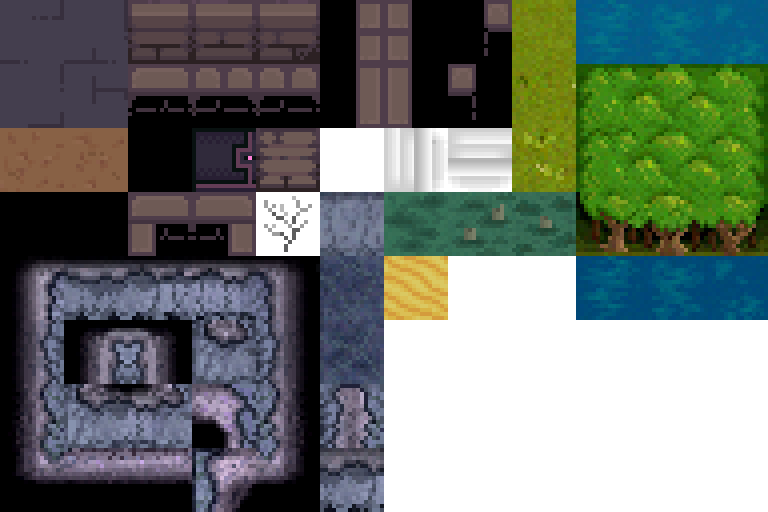
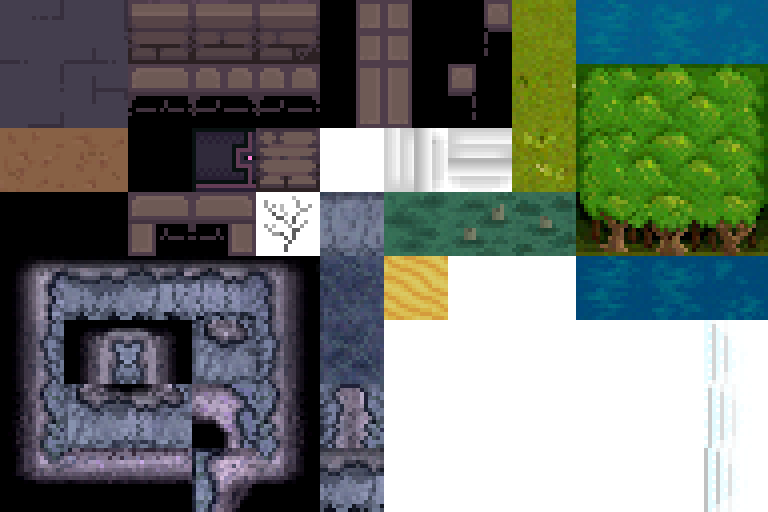
water surf

Changed region(s): [[0.9062, 0.625, 0.9688, 1.0]]

diff --git a/src/main/kotlin/world/terrains/Water.kt b/src/main/kotlin/world/terrains/Water.kt
@@ -1,6 +1,8 @@
 package world.terrains
 
 import render.tilesets.Glyph
+import util.*
+import world.level.Level
 
 
 sealed class Water(
@@ -8,7 +10,23 @@ sealed class Water(
     glyph: Glyph
 ) : Terrain(type, glyph, false, true, false, dataType = Type.GENERIC_WATER){
 
-
+    override fun renderExtraQuads(level: Level, x: Int, y: Int, vis: Float, glyph: Glyph, light: LightColor,
+                                  doQuad: (x0: Double, y0: Double, x1: Double, y1: Double, tx0: Float, ty0: Float, tx1: Float, ty1: Float,
+                                           vis: Float, glyph: Glyph, light: LightColor, rotate: Boolean
+                                  )->Unit
+    ) {
+        if (vis < 1f) return
+        CARDINALS.forEach { dir ->
+            if (get(level.getTerrain(x+dir.x,y+dir.y)) !is Water) {
+                when (dir) {
+                    WEST -> doQuad(x.toDouble(), y.toDouble(), x.toDouble() + 1.0, y.toDouble() + 1.0, 0f, 0f, 1f, 1f, vis, Glyph.SURF, light, false)
+                    EAST -> doQuad(x.toDouble(), y.toDouble(), x.toDouble() + 1.0, y.toDouble() + 1.0, 1f, 0f, 0f, 1f, vis, Glyph.SURF, light, false)
+                    NORTH -> doQuad(x.toDouble(), y.toDouble(), x.toDouble() + 1.0, y.toDouble() + 1.0, 0f, 0f, 1f, 1f, vis, Glyph.SURF, light, true)
+                    SOUTH -> doQuad(x.toDouble(), y.toDouble(), x.toDouble() + 1.0, y.toDouble() + 1.0, 1f, 0f, 0f, 1f, vis, Glyph.SURF, light, true)
+                }
+            }
+        }
+    }
 
 }
 

diff --git a/src/main/kotlin/render/batches/QuadBatch.kt b/src/main/kotlin/render/batches/QuadBatch.kt
@@ -97,7 +97,7 @@ class QuadBatch(
     fun addPartialQuad(x0: Double, y0: Double, x1: Double, y1: Double,
                        textureIndex: Int, visibility: Float, light: LightColor,
                        tx0: Float, ty0: Float, tx1: Float, ty1: Float,
-                       alpha: Float = 1f, hue: Float = 0f) {
+                       alpha: Float = 1f, hue: Float = 0f, rotate: Boolean = false) {
         val gx0 = Screen.tileXtoGlx(x0)
         val gy0 = Screen.tileYtoGly(y0)
         val gx1 = Screen.tileXtoGlx(x1)
@@ -106,7 +106,7 @@ class QuadBatch(
         val lightG = min(visibility, light.g + App.level.weather.lightning.g) * Screen.brightness
         val lightB = min(visibility, light.b + App.level.weather.lightning.b) * Screen.brightness
         val grayOut = if (visibility < 1f) 1f else App.level.weather.lightning.r * 0.6f
-        addQuad(gx0, gy0, gx1, gy1, tx0, ty0, tx1, ty1, textureIndex, lightR, lightG, lightB, alpha, grayOut, hue)
+        addQuad(gx0, gy0, gx1, gy1, tx0, ty0, tx1, ty1, textureIndex, lightR, lightG, lightB, alpha, grayOut, hue, rotate)
     }
 
     fun addPixelQuad(x0: Int, y0: Int, x1: Int, y1: Int, // absolute screen pixel XY

diff --git a/src/main/kotlin/world/terrains/Floors.kt b/src/main/kotlin/world/terrains/Floors.kt
@@ -98,12 +98,12 @@ sealed class Floor(
         Terrain.get(chunk.getTerrain(x, y)).let { (!it.isWalkable() && it.isOpaque()) }
 
     override fun renderExtraQuads(level: Level, x: Int, y: Int, vis: Float, glyph: Glyph, light: LightColor,
-                                  doQuad: (x0: Double, y0: Double, x1: Double, y1: Double, tx0: Float, tx1: Float, ty0: Float, ty1: Float,
-                                           vis: Float, glyph: Glyph, light: LightColor)->Unit
+                                  doQuad: (x0: Double, y0: Double, x1: Double, y1: Double, tx0: Float, ty0: Float, tx1: Float, ty1: Float,
+                                           vis: Float, glyph: Glyph, light: LightColor, rotate: Boolean)->Unit
     ) {
         level.getTerrainData(x, y)?.let { it as Data }?.also {
             it.extraQuads.forEach { quad ->
-                doQuad(quad.x0, quad.y0, quad.x1, quad.y1, quad.tx0, quad.ty0, quad.tx1, quad.ty1, vis, quad.glyph, light)
+                doQuad(quad.x0, quad.y0, quad.x1, quad.y1, quad.tx0, quad.ty0, quad.tx1, quad.ty1, vis, quad.glyph, light, false)
             }
         }
     }

diff --git a/src/main/kotlin/render/Screen.kt b/src/main/kotlin/render/Screen.kt
@@ -205,10 +205,10 @@ object Screen : KtxScreen {
         lightCache[lx][ly].b = light.b
     }
 
-    private val renderQuad: (Double, Double, Double, Double, Float, Float, Float, Float, Float, Glyph, LightColor)->Unit =
-        { x0, y0, x1, y1, tx0, ty0, tx1, ty1, vis, glyph, light ->
+    private val renderQuad: (Double, Double, Double, Double, Float, Float, Float, Float, Float, Glyph, LightColor, Boolean)->Unit =
+        { x0, y0, x1, y1, tx0, ty0, tx1, ty1, vis, glyph, light, rotate ->
             val textureIndex = terrainBatch.getTextureIndex(glyph, App.level, x0.toInt(), y0.toInt())
-            terrainBatch.addPartialQuad(x0, y0, x1, y1, textureIndex, vis, light, tx0, ty0, tx1, ty1, 1f)
+            terrainBatch.addPartialQuad(x0, y0, x1, y1, textureIndex, vis, light, tx0, ty0, tx1, ty1, 1f, rotate = rotate)
     }
 
     private val renderWeather: (Int, Int, Float, Float, Boolean)->Unit = { tx, ty, cloudAlpha, rainAlpha, fadeUp ->

diff --git a/src/main/kotlin/world/terrains/Walls.kt b/src/main/kotlin/world/terrains/Walls.kt
@@ -62,12 +62,12 @@ sealed class Wall(
 
     override fun renderExtraQuads(level: Level, x: Int, y: Int, vis: Float, glyph: Glyph, light: LightColor,
                                   doQuad: (x0: Double, y0: Double, x1: Double, y1: Double, tx0: Float, tx1: Float, ty0: Float, ty1: Float,
-                                           vis: Float, glyph: Glyph, light: LightColor)->Unit
+                                           vis: Float, glyph: Glyph, light: LightColor, rotate: Boolean)->Unit
     ) {
         level.getTerrainData(x, y)?.let { it as Data }?.also {
             if (it.damage > 0f) {
                 doQuad(x.toDouble(), y.toDouble(), (x+1).toDouble(), (y+1).toDouble(),
-                    0f, 0f, 1f, 1f, vis, Glyph.WALL_DAMAGE, light)
+                    0f, 0f, 1f, 1f, vis, Glyph.WALL_DAMAGE, light, false)
             }
         }
     }

diff --git a/src/main/kotlin/world/level/Level.kt b/src/main/kotlin/world/level/Level.kt
@@ -85,7 +85,7 @@ sealed class Level {
     fun forEachCellToRender(
         doTile: (x: Int, y: Int, vis: Float, glyph: Glyph, light: LightColor) -> Unit,
         doQuad: (x0: Double, y0: Double, x1: Double, y1: Double, tx0: Float, tx1: Float, ty0: Float, ty1: Float,
-                 vis: Float, glyph: Glyph, light: LightColor)->Unit,
+                 vis: Float, glyph: Glyph, light: LightColor, rotate: Boolean)->Unit,
         doStain: (x: Int, y: Int, stain: Stain, light: LightColor) -> Unit,
         doFire: (x: Int, y: Int, offset: Float, offX: Float, offY: Float, size: Float) -> Unit,
         doWeather: (x: Int, y: Int, cloudAlpha: Float, rainAlpha: Float, fadeUp: Boolean) -> Unit,

diff --git a/src/main/kotlin/world/terrains/Terrain.kt b/src/main/kotlin/world/terrains/Terrain.kt
@@ -75,7 +75,7 @@ sealed class Terrain(
 
     open fun renderExtraQuads(level: Level, x: Int, y: Int, vis: Float, glyph: Glyph, light: LightColor,
                               doQuad: (x0: Double, y0: Double, x1: Double, y1: Double, tx0: Float, tx1: Float, ty0: Float, ty1: Float,
-                                       vis: Float, glyph: Glyph, light: LightColor)->Unit) { }
+                                       vis: Float, glyph: Glyph, light: LightColor, rotate: Boolean)->Unit) { }
 
     open fun isWalkable() = this.walkable
     open fun isOpaque() = this.opaque

diff --git a/src/main/kotlin/render/tilesets/TerrainTileSet.kt b/src/main/kotlin/render/tilesets/TerrainTileSet.kt
@@ -9,8 +9,12 @@ fun TerrainTileSet() =
 
         setTile(Glyph.OCCLUSION_SHADOWS_V, SimpleTile(this, 6, 2))
         setTile(Glyph.OCCLUSION_SHADOWS_H, SimpleTile(this, 7, 2))
-        setTile(Glyph.SURF_V, SimpleTile(this, 9, 1))
-        setTile(Glyph.SURF_H, SimpleTile(this, 11, 1))
+        setTile(Glyph.SURF, AnimatedTile(this).apply {
+            frameMs = 221
+            add(11, 5)
+            add(11, 6)
+            add(11, 7)
+        })
 
         setTile(Glyph.CAVE_FLOOR, VariantsTile(this).apply {
             add(0.5f, 5, 4)

diff --git a/src/main/kotlin/render/tilesets/Glyph.kt b/src/main/kotlin/render/tilesets/Glyph.kt
@@ -28,8 +28,7 @@ enum class Glyph {
     LOGO_OOKLA,
     OCCLUSION_SHADOWS_V,
     OCCLUSION_SHADOWS_H,
-    SURF_V,
-    SURF_H,
+    SURF,
     PANEL_SHADOW,
     BUTTON_INVENTORY,
     BUTTON_MAP,
